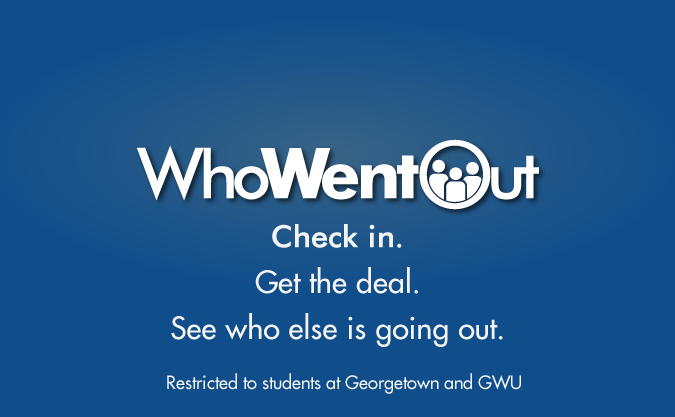
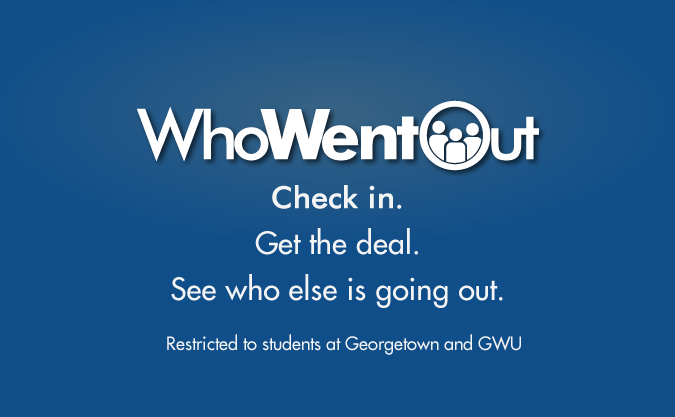
fixed deal popup

diff --git a/www/css/styles.less b/www/css/styles.less
@@ -167,6 +167,7 @@ input[type="submit"], button {
 #home_page {
     text-align: center;
     color: white;
+    overflow: hidden;
     img {
         max-width: 100%;
         margin: auto;

diff --git a/fire/browser/brower.class.php b/fire/browser/brower.class.php
@@ -21,6 +21,7 @@ class browser
 
     static function is_mobile()
     {
+        return true;
         if(preg_match('/(alcatel|amoi|android|avantgo|blackberry|benq|cell|cricket|docomo|elaine|htc|iemobile|iphone|ipaq|ipod|j2me|java|midp|mini|mmp|mobi|motorola|nec-|nokia|palm|panasonic|philips|phone|sagem|sharp|sie-|smartphone|sony|symbian|t-mobile|telus|up\.browser|up\.link|vodafone|wap|webos|wireless|xda|xoom|zte)/i', $_SERVER['HTTP_USER_AGENT']))
             return true;
         else

diff --git a/whowentout/features/deal/templates/mobile_deal_page.tpl.php b/whowentout/features/deal/templates/mobile_deal_page.tpl.php
@@ -16,7 +16,7 @@
         <link rel="stylesheet/less" type="text/css" href="/css/styles.<?= filemtime('./css/styles.less') ?>.less"/>
         <link rel="stylesheet/less" type="text/css" href="/css/styles.mobile.<?= filemtime('./css/styles.mobile.less') ?>.less"/>
 
-        <script src="/js/less.js" type="text/javascript"></script>
+        <script src="/js/less-1.2.1.js" type="text/javascript"></script>
 
         <?php
             /* @var $asset Asset */

diff --git a/whowentout/views/home.tpl.php b/whowentout/views/home.tpl.php
@@ -35,7 +35,7 @@
 
 <body id="home_page">
 
-    <img src="/images/home.png?version=5" />
+    <img src="/images/home.png?version=7" />
 
     <a href="/login" class="login_button">Login with Facebook</a>
 
